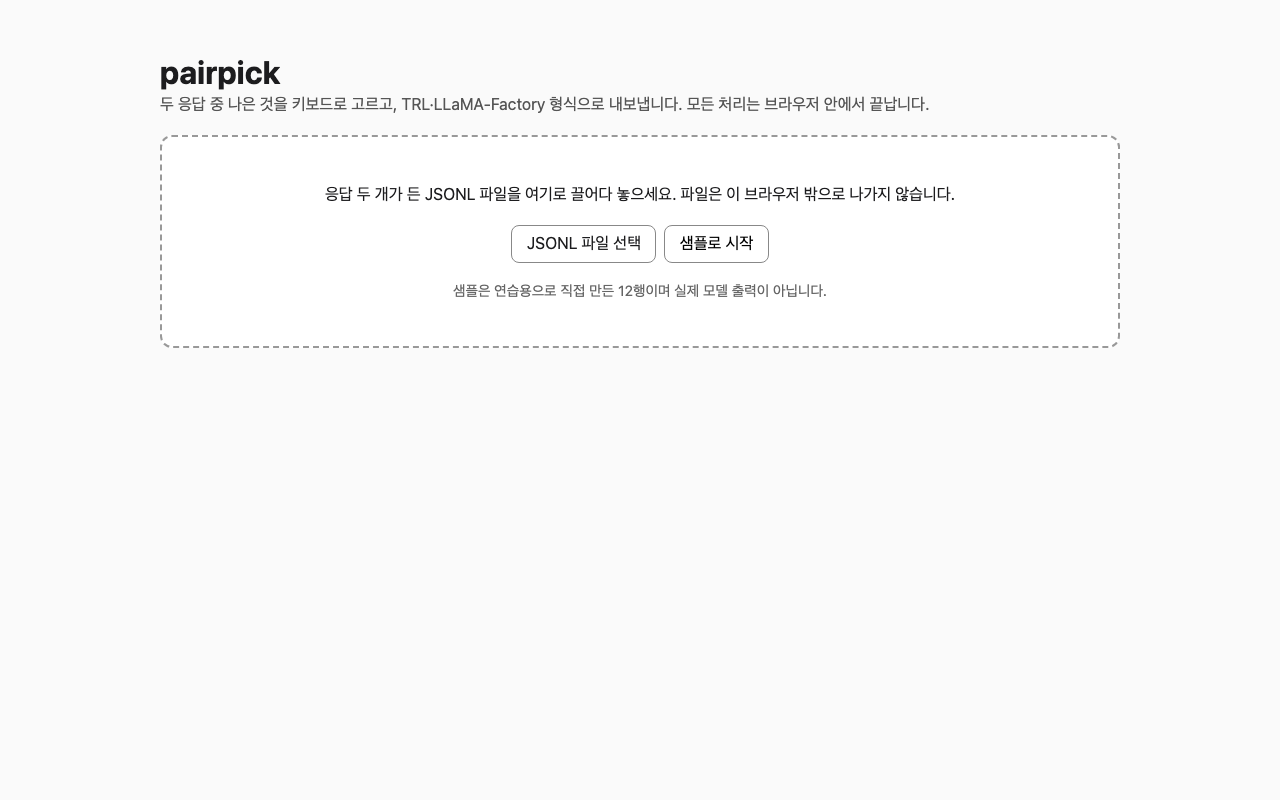
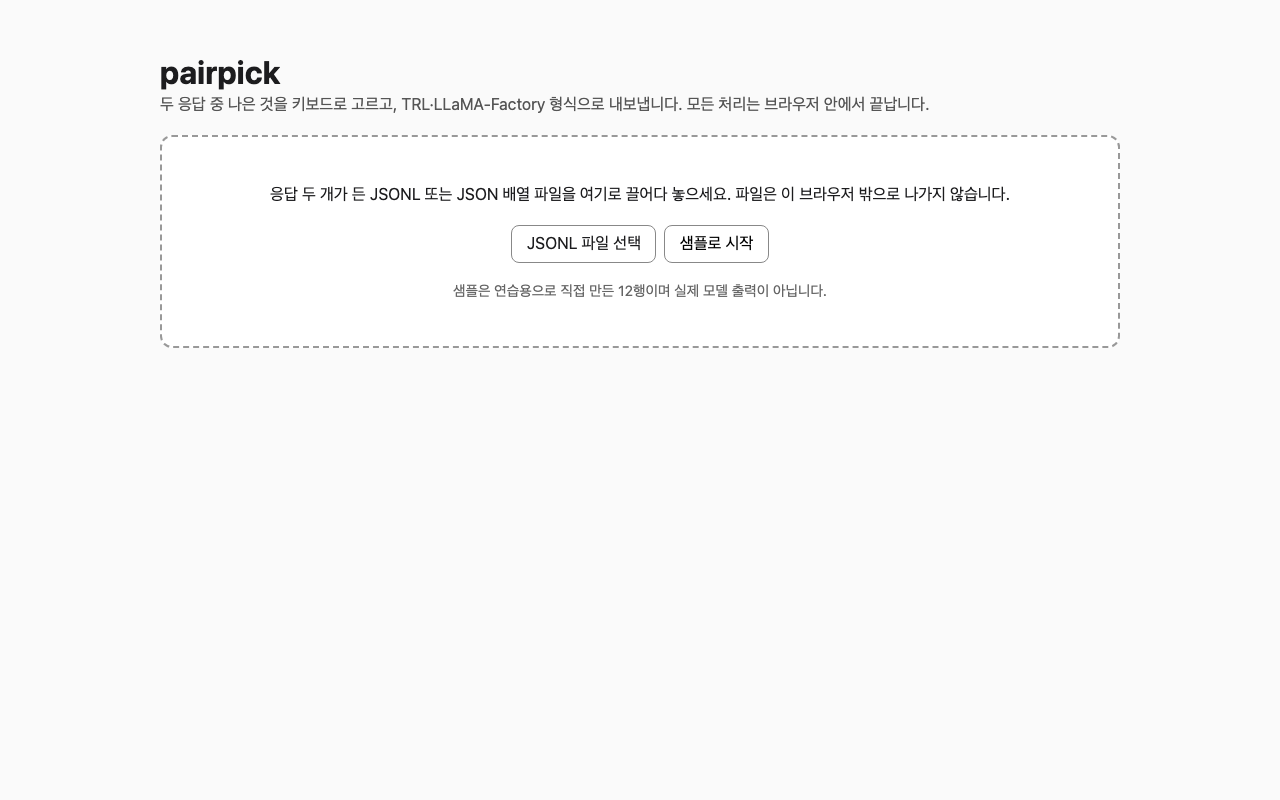
docs(readme): document JSON array input and known limits

Changed region(s): [[0.2188, 0.2188, 0.7812, 0.25]]

diff --git a/README.md b/README.md
@@ -1,6 +1,6 @@
 # pairpick
 
-> **English summary** — pairpick is a static web app that runs entirely in your browser: drop in a JSONL file with two responses per prompt, pick the better one with the keyboard (`1` / `2`), and export preference files that TRL (DPO, KTO) and LLaMA-Factory read directly. Your data never leaves the browser, and there is no server, account, or database to set up. Run it with `npm install && npm run dev`.
+> **English summary** — pairpick is a static web app that runs entirely in your browser: drop in a JSONL file (or a JSON array of rows) with two responses per prompt, pick the better one with the keyboard (`1` / `2`), and export preference files that TRL (DPO, KTO) and LLaMA-Factory read directly. Your data never leaves the browser, and there is no server, account, or database to set up. Run it with `npm install && npm run dev`.
 
 응답 두 개 중 나은 쪽을 키보드로 고르면, DPO·KTO 학습 프레임워크가 읽는 파일이 바로 나옵니다. 라벨링 서버도, 변환 스크립트도 필요 없습니다.
 
@@ -33,7 +33,7 @@ npm install
 ```bash
 npm run dev
 ```
-출력된 주소(보통 `http://localhost:5173`)를 브라우저로 열고 **"샘플로 시작"**을 누릅니다. 내 파일이 있으면 화면에 끌어다 놓거나 "JSONL 파일 선택"을 누르세요.
+출력된 주소(보통 `http://localhost:5173`)를 브라우저로 열고 **"샘플로 시작"**을 누릅니다. 내 파일(JSONL 또는 JSON 배열)이 있으면 화면에 끌어다 놓거나 "JSONL 파일 선택"을 누르세요.
 
 샘플은 **연습용으로 직접 만든 12행**이며 실제 모델 출력이 아닙니다. 동일 응답·빈 응답·길이 차이·중복 프롬프트·대화형 프롬프트·응답 3개 행이 일부러 들어 있어서, 경고 배지와 내보내기 4종을 모두 볼 수 있습니다.
 
@@ -51,7 +51,7 @@ npm run dev
 ## 사용법
 
 ### 입력 파일 모양
-한 줄에 JSON 하나(JSONL). 아래 세 모양을 자동으로 알아봅니다. 프롬프트는 문자열이거나 `[{role, content}]` 메시지 목록입니다.
+한 줄에 JSON 하나(JSONL), 또는 행 객체를 담은 JSON 배열(`[ {...}, {...} ]`) 파일을 넣을 수 있습니다. 내용이 `[`로 시작하고 전체가 올바른 JSON 배열이면 배열로 읽습니다(배열이 깨져 있으면 JSONL처럼 줄마다 오류를 보여 줍니다). 확장자는 보지 않습니다. 아래 세 모양을 자동으로 알아봅니다. 프롬프트는 문자열이거나 `[{role, content}]` 메시지 목록입니다.
 
 ```jsonl
 {"id":"a1","prompt":"질문","responses":["응답 1","응답 2"]}
@@ -59,7 +59,16 @@ npm run dev
 {"id":"a3","prompt":"질문","chosen":"예전에 고른 답","rejected":"예전에 버린 답"}
 ```
 
-- `id`가 없으면 줄 번호를 씁니다. 응답이 3개 이상이면 앞의 두 개만 비교하고 요약에 개수를 알려 줍니다.
+JSON 배열 예시(`fixtures/inputs/array.json`과 같은 모양):
+
+```json
+[
+  {"id":"a1","prompt":"질문","responses":["응답 1","응답 2"]},
+  {"prompt":"질문","response_a":"응답 A","response_b":"응답 B"}
+]
+```
+
+- `id`가 없으면 줄 번호(JSONL) 또는 몇 번째 항목인지(JSON 배열, 1부터)를 씁니다. 배열 오류도 "N번째 항목"으로 알려 줍니다. 배열 예시는 `fixtures/inputs/array.json`에 있습니다. 빈 파일, 공백뿐인 파일, `[]`를 넣으면 읽을 행이 없다는 안내가 나옵니다. 응답이 3개 이상이면 앞의 두 개만 비교하고 요약에 개수를 알려 줍니다.
 - `chosen`/`rejected` 모양은 **재검토 모드**입니다. 원래 라벨은 화면에 숨기고, 다시 고른 결과가 원래와 얼마나 일치하는지 요약에 보여 줍니다.
 - BOM·윈도우 줄바꿈(CRLF)·빈 줄은 건너뜁니다. 깨진 줄은 `3번째 줄: ...` 형태로 목록에 뜨고, 나머지 행은 그대로 읽습니다.
 
@@ -167,7 +176,7 @@ uv run --no-project --python 3.12 --with datasets==5.2.0 --with trl==1.17.1 pyth
 ## 동작 원리
 ```mermaid
 flowchart LR
-  A[JSONL 파일] --> B[읽기: parse.ts]
+  A[JSONL / JSON 배열] --> B[읽기: parse.ts]
   B --> C[좌우 섞기: order.ts]
   C --> D[키로 고르기]
   D --> E[(IndexedDB 저장)]
@@ -175,14 +184,14 @@ flowchart LR
   F --> G[TRL 3종 + LLaMA-Factory]
 ```
 
-1. **읽기**: 한 줄씩 JSON으로 읽어 세 모양 중 하나로 맞추고, 깨진 줄은 줄 번호와 함께 모읍니다.
+1. **읽기**: 한 줄씩(JSON 배열이면 항목마다) JSON으로 읽어 세 모양 중 하나로 맞추고, 깨진 줄·항목은 번호와 함께 모읍니다.
 2. **좌우 섞기**: 파일 지문과 행 id로 만든 시드로 좌우를 정합니다. 같은 파일이면 항상 같은 배치라서 이어하기가 일관됩니다.
 3. **고르기**: 결정을 `원본 응답 번호 + 왼쪽에 보인 응답`으로 기록합니다.
 4. **저장**: 결정이 바뀔 때마다 브라우저 IndexedDB에 씁니다.
 5. **내보내기**: 결정 목록을 원본 행 순서로 훑어 형식별 파일을 만듭니다. 시각 같은 값을 넣지 않아 같은 결정이면 같은 파일이 나옵니다.
 
 코드 둘러보기:
-- `src/lib/parse.ts` — JSONL 읽기와 입력 모양 감지
+- `src/lib/parse.ts` — JSONL·JSON 배열 읽기와 입력 모양 감지
 - `src/lib/export/trl.ts`, `src/lib/export/llamafactory.ts` — 형식 변환(화면과 무관한 순수 함수)
 - `src/lib/quality.ts` — 품질 경고 4종(동일 응답·빈 응답·길이 비 3배 이상·중복 프롬프트)
 
@@ -198,9 +207,10 @@ flowchart LR
 | KTO 학습에서 라벨이 이상하게 읽힘 | `label`이 문자열 `"true"`나 0/1이면 불리언으로 읽히지 않습니다 | pairpick은 JSON 불리언으로 씁니다. 직접 고친 파일이라면 `true`/`false`로 |
 | 동점으로 고른 행이 내보낸 파일에 없음 | DPO는 우열이 있는 쌍만 쓸 수 있어서 동점·건너뛰기는 뺍니다 | 정상 동작입니다. 개수는 요약 패널에 있습니다 |
 | "이 브라우저에서는 IndexedDB를 쓸 수 없어…" 배너 | 사생활 보호 모드 등으로 저장소를 쓸 수 없음 | 진행 상황 백업 JSON을 내려받아 두었다가 불러오기 |
-| 빈 파일을 넣으면 "0행 읽음"만 나옴 | 읽을 행이 없음(알려진 한계: 안내 문구가 아직 없음). `.json` 배열 파일도 JSONL이 아니라 읽히지 않음 | 한 줄에 객체 하나씩 있는 JSONL로 바꾸기. 파서 오류 문구는 영어로 표시됩니다 |
+| "읽을 행이 없습니다" 안내가 뜸 | 빈 파일, 공백뿐인 파일 또는 `[]`를 넣음 | 행이 든 파일을 다시 고르기. 파서 오류 문구는 영어로 표시됩니다 |
 | LLaMA-Factory 버튼을 누르면 브라우저가 여러 파일 다운로드 허용을 물음 | 이 버튼은 alpaca 파일과 `dataset_info.json` 조각 2개를 연달아 내려받음 | 허용을 선택. 일부 브라우저에서 다운로드가 비면 다시 시도(실제 브라우저 확인은 아직 못 했습니다) |
 | 다시 열었더니 이어하기가 안 됨 | 파일 내용이 바뀌었거나 브라우저가 저장소를 지움 | 같은 파일인지 확인하고, 백업 JSON을 불러오기 |
+| "the file is a single JSON object ..." 오류 1개 | 행 객체 하나를 여러 줄로 들여써 저장한 파일 | 행 객체들을 `[ ]` 배열로 감싸거나, 한 줄에 하나씩(JSONL) 저장 |
 | 읽기 결과에 "찾은 키: foo, bar" 오류 | 입력 행이 세 모양 중 어느 것에도 맞지 않음 | `prompt`와 응답 열(`responses`, `response_a/b`, `chosen/rejected`)을 확인 |
 | `npm install` 경고·실패 | Node 버전이 위 범위(22.22.2+ · 24.15+ · 26+)에 없음 | Node 버전을 올리기 |
 
@@ -210,7 +220,9 @@ npm test        # 단위·화면 테스트(vitest, jsdom, fake-indexeddb)
 npm run build   # 타입 검사 + 정적 빌드
 npm run lint    # oxlint
 ```
-테스트 결과(이 글을 쓸 때 실행): `Test Files 9 passed (9)`, `Tests 44 passed (44)`. 내보내기 골든 파일을 다시 만들려면 `UPDATE_GOLDEN=1 npm test`.
+테스트 결과(이 글을 쓸 때 실행): `Test Files 11 passed (11)`, `Tests 57 passed (57)`. 내보내기 골든 파일을 다시 만들려면 `UPDATE_GOLDEN=1 npm test`.
+
+알려진 한계(0.2.0): 시작 화면의 파일 버튼 문구는 JSON 배열도 받지만 "JSONL 파일 선택"으로 남아 있습니다. 또 JSONL 읽기 결과가 이전과 같은지 확인하는 테스트(`src/lib/parse.array.test.ts`)의 id·줄 번호 단언 하나가 느슨해서(항상 참), 그 부분은 기존 테스트가 일부 보호합니다. 다음 버전에서 고칠 예정입니다.
 
 버그·제안은 이슈로 남겨 주세요. 변경 기록은 [CHANGELOG.md](CHANGELOG.md).
 

diff --git a/CHANGELOG.md b/CHANGELOG.md
@@ -1,5 +1,9 @@
 # Changelog
 
+## 0.2.0 - 2026-11-11
+- Accept a JSON array of row objects (same record schema as JSONL). The format is detected from the content, not the file extension; array rows use their 1-based position as the default id and in error messages.
+- Show guidance for empty files, whitespace-only files and `[]`, and report a multi-line single JSON object as one error instead of one per line.
+
 ## 0.1.0 - 2026-11-10
 - First release: static browser app (React, Vite, TypeScript) to pick the better of two responses with the keyboard.
 - Reads JSONL in three shapes (`responses[]`, `response_a`/`response_b`, `chosen`/`rejected`), reports broken lines by line number.
